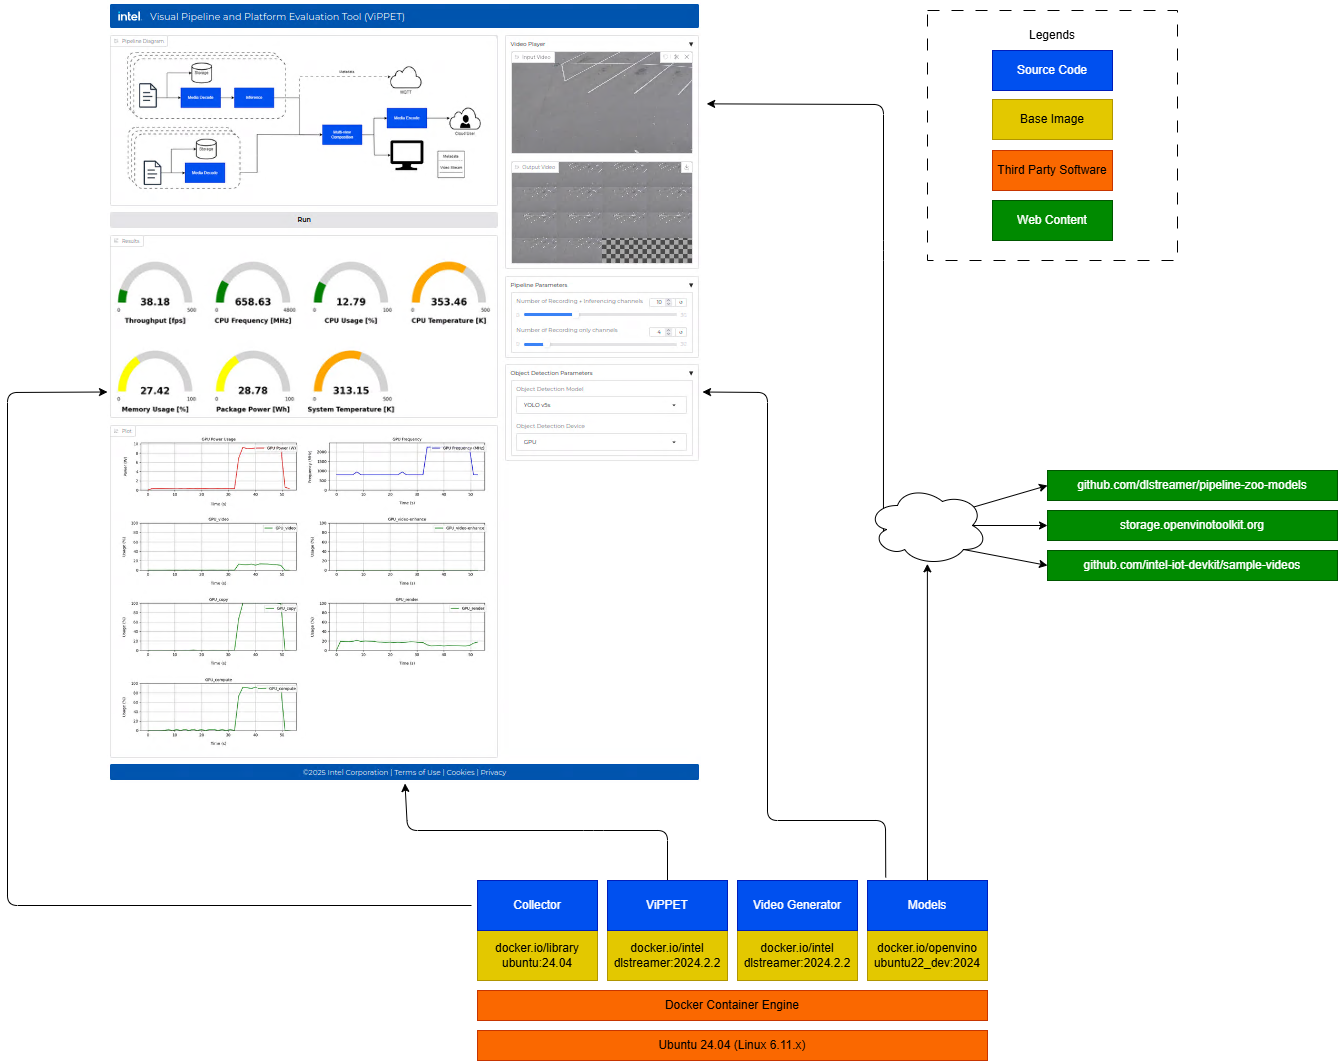
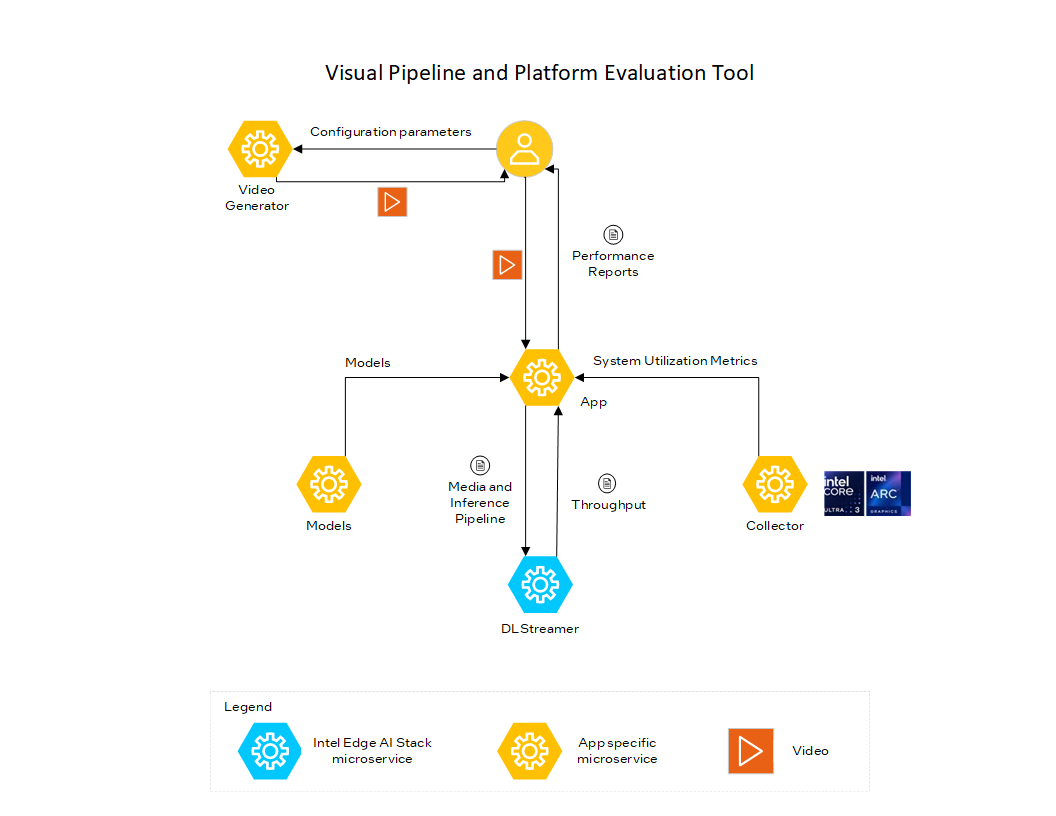
Update docs and architecture diagram (#4)
* Documentation fixes
* Update architecture diagram

diff --git a/visual-pipeline-and-platform-evaluation-tool/docs/user-guide/get-started.md b/visual-pipeline-and-platform-evaluation-tool/docs/user-guide/get-started.md
@@ -32,7 +32,7 @@ By following this guide, you will learn how to:
         curl -L -o models/intel/person-vehicle-bike-detection-2004/person-vehicle-bike-detection-2004.json "https://raw.githubusercontent.com/intel/metro-ai-suite/refs/heads/main/visual-pipeline-and-platform-evaluation-tool/models/intel/person-vehicle-bike-detection-2004/person-vehicle-bike-detection-2004.json"
         mkdir -p models/intel/vehicle-attributes-recognition-barrier-0039/
         curl -L -o models/intel/vehicle-attributes-recognition-barrier-0039/vehicle-attributes-recognition-barrier-0039.json "https://raw.githubusercontent.com/intel/metro-ai-suite/refs/heads/main/visual-pipeline-and-platform-evaluation-tool/models/intel/vehicle-attributes-recognition-barrier-0039/vehicle-attributes-recognition-barrier-0039.json"
-        mkdir video_generator
+        mkdir -p video_generator
         curl -L -o video_generator/background.gif "https://raw.githubusercontent.com/intel/metro-ai-suite/refs/heads/main/visual-pipeline-and-platform-evaluation-tool/video_generator/background.gif"
         curl -L -o video_generator/config.json "https://raw.githubusercontent.com/intel/metro-ai-suite/refs/heads/main/visual-pipeline-and-platform-evaluation-tool/video_generator/config.json"
         mkdir -p video_generator/images/cars

diff --git a/visual-pipeline-and-platform-evaluation-tool/docs/user-guide/system-requirements.md b/visual-pipeline-and-platform-evaluation-tool/docs/user-guide/system-requirements.md
@@ -27,11 +27,6 @@ This page provides detailed hardware, software, and platform requirements to hel
 - Intel® Xeon® processors (recommended for large deployments)
 -->
 
-## Minimum Requirements
-<!--
-**Guidelines**:
-- Use a table to clearly outline minimum and recommended configurations.
--->
 
 ## Minimum Requirements
 | **Component**       | **Minimum**              | **Recomended**           |     
@@ -43,15 +38,10 @@ This page provides detailed hardware, software, and platform requirements to hel
 
 
 ## Software Requirements
-<!--
-**Guidelines**:
-- List software dependencies, libraries, and tools.
--->
-## Software Requirements
 **Required Software**:
 - Docker 20.10 or higher
 
-- Ensure the device has the required drivers. If not, follow the steps in this [link](https://edgesoftwarecatalog.intel.com/details/?microserviceType=recipe&microserviceNameForUrl=metro-ai-suite-device-qualification-for-hardware-builder).
+- Ensure the device has the required drivers. If not, follow the steps in [Intel® Edge Device Enablement Framework (EEF)](https://docs.edgeplatform.intel.com/edge-device-enablement-framework/user-guide/Get-Started-Guide.html).
 
 ## Compatibility Notes
 <!--
